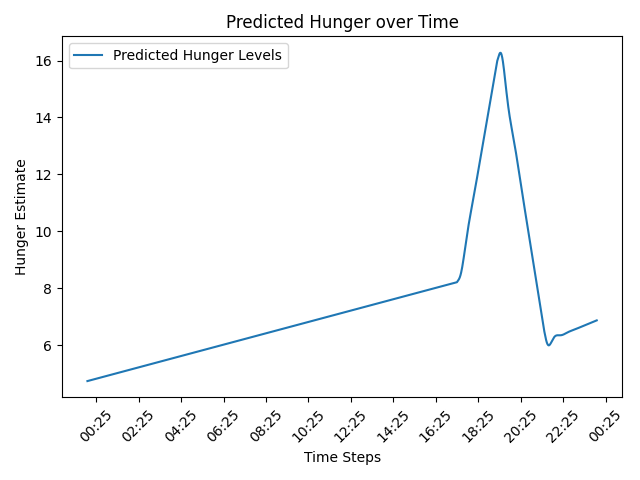
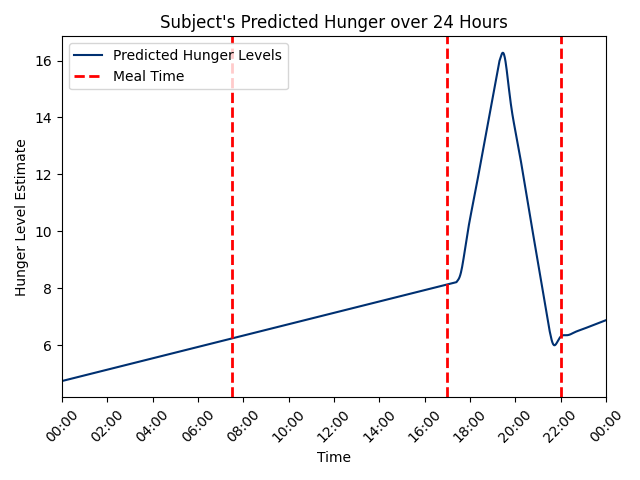
making final touches on plots

diff --git a/CoreBodyTemp/FeedingCopy/asya_kalman_hunger.py b/CoreBodyTemp/FeedingCopy/asya_kalman_hunger.py
@@ -16,7 +16,7 @@ from filterpy.kalman import KalmanFilter
 import sys 
 sys.path.append(os.path.join(home_dir, "SleepCycle"))
 from data_processing import process_categorical_data, process_numerical_data, calc_R, calc_X
-from datetime import datetime
+from datetime import datetime, timedelta
 
 #preprocess the data 
 physical_csv_string = os.path.join(home_dir, "data/PhysicalEffort.csv")
@@ -186,10 +186,18 @@ print(f"first time series: {time_phys_rate[0]}")
 print(f"last time series: {time_phys_rate[-1]}")
 
 
+
+
 for i in range(8, 18):
-    print(len(xs_cbt))
     start_time = datetime(2024, 2, i, 0, 0)  # Example start time: 05:00
     end_time = datetime(2024, 2, i+1, 0, 0)
+
+    meal_times = [
+        datetime(2024, 2, i, 7, 30),  # 7:30 AM
+        datetime(2024, 2, i, 17, 0),  # 5:00 PM
+        datetime(2024, 2, i, 22, 0)   # 10:00 PM
+    ]
+
     
     indices = [i for i, t in enumerate(time_phys_rate) if start_time <= t <= end_time]
     time_series_df = pd.Series(time_phys_rate)
@@ -197,17 +205,36 @@ for i in range(8, 18):
     time_series_filtered = time_series_filtered.tolist()
 
     xs_cbt_filtered = xs_cbt[indices]
-
-
-    plt.gca().xaxis.set_major_locator(mdates.MinuteLocator(interval=120))  # Set ticks every 30 minutes
-    plt.gca().xaxis.set_major_formatter(mdates.DateFormatter('%H:%M'))
+    #plt.gca().xaxis.set_major_locator(mdates.MinuteLocator(interval=120))  # Set ticks every 2 hours
+    #plt.gca().xaxis.set_major_formatter(mdates.DateFormatter('%H:%M'))
     plt.xticks(rotation=45)
 
+    
 
-    plt.plot(time_series_filtered, xs_cbt_filtered, label='Predicted Hunger Levels')
-    plt.title('Predicted Hunger over Time')
-    plt.xlabel('Time Steps')
-    plt.ylabel('Hunger Estimate')
+    locator = mdates.HourLocator(interval=2)  # ticks every 2 hours
+    plt.gca().xaxis.set_major_locator(locator)
+    formatter = mdates.DateFormatter('%H:%M')
+    plt.gca().xaxis.set_major_formatter(formatter)
+    plt.gca().set_xlim(start_time, end_time)
+
+   
+
+    plt.plot(time_series_filtered, xs_cbt_filtered, label='Predicted Hunger Levels', color = "#003071")
+
+     #add vertical lines at meal_times
+    for i in range(0, len(meal_times)):
+        if(i == 0):
+            plt.axvline(x=meal_times[i], color='red', linestyle='--', linewidth=2, label=f'Meal Time')
+        else:
+            plt.axvline(x=meal_times[i], color='red', linestyle='--', linewidth=2)
+
+    handles, labels = plt.gca().get_legend_handles_labels()
+    by_label = dict(zip(labels, handles))
+    plt.legend(by_label.values(), by_label.keys())
+
+    plt.title('Subject\'s Predicted Hunger over 24 Hours')
+    plt.xlabel('Time (Hours)')
+    plt.ylabel('Hunger Level Estimate')
     plt.legend()
     plt.tight_layout()
     plt.savefig(os.path.join(home_dir, "CoreBodyTemp/FeedingCopy/hunger_plots_pngs/", f"feeding_output_{start_time}_to_{end_time}_.png"))

diff --git a/CoreBodyTemp/my_kalman_filter.py b/CoreBodyTemp/my_kalman_filter.py
@@ -228,9 +228,15 @@ time_series = time_series.tolist()
 xs_cbt = xs_cbt[indices]
 #time_series = pd.date_range(start="00:01", end="23:59", periods=len(xs_cbt))
 
-plt.gca().xaxis.set_major_locator(mdates.MinuteLocator(interval=120))  # Set ticks every 30 minutes
-plt.gca().xaxis.set_major_formatter(mdates.DateFormatter('%H:%M'))
+#plt.gca().xaxis.set_major_locator(mdates.MinuteLocator(interval=120))  # Set ticks every 30 minutes
+#plt.gca().xaxis.set_major_formatter(mdates.DateFormatter('%H:%M'))
 plt.xticks(rotation=45)
+
+locator = mdates.HourLocator(interval=2)  # ticks every 2 hours
+plt.gca().xaxis.set_major_locator(locator)
+formatter = mdates.DateFormatter('%H:%M')
+plt.gca().xaxis.set_major_formatter(formatter)
+plt.gca().set_xlim(start_time, end_time)
 
 residual_std_cbt = residual_std[:, 0]  # Extract standard deviation for CBT
 mse_cbt = mse[:, 0]  # Extract MSE for CBT
@@ -240,10 +246,10 @@ print("Mean Squared Error (MSE):", mse_cbt)
 
 
 plt.plot(time_series, xs_cbt, color = "#003071", label='Predicted CBT')
-plt.title('Predicted Core Body Temperature over Time')
-plt.xlabel('Time Steps')
-plt.ylabel('CBT Estimate')
-plt.legend()
+plt.title("Subject\'s Predicted Core Body Temperature Over 24 Hours")
+plt.xlabel('Time (Hours)')
+plt.ylabel('CBT Estimate (°F)')
+#plt.legend()
 '''
 # Plot Residuals
 plt.subplot(2, 1, 2)  # Second plot in the grid

diff --git a/Ensemble/ensemble.py b/Ensemble/ensemble.py
@@ -195,26 +195,27 @@ for i in range(7,18):
 
     xs_cbt_filtered = xs_cbt[indices]
 
-    plt.gca().xaxis.set_major_locator(mdates.MinuteLocator(interval=120))  # Set ticks every 30 minutes
-    plt.gca().xaxis.set_major_formatter(mdates.DateFormatter('%H:%M'))
+    locator = mdates.HourLocator(interval=2)  # ticks every 2 hours
+    plt.gca().xaxis.set_major_locator(locator)
+    formatter = mdates.DateFormatter('%H:%M')
+    plt.gca().xaxis.set_major_formatter(formatter)
+    plt.gca().set_xlim(start_time, end_time)
+
     plt.xticks(rotation=45)
 
 
-    plt.plot(time_series_filtered, xs_cbt_filtered, label='Predicted SCN Activity')
-    plt.title('Predicted SCN over Time')
-    plt.xlabel('Time Steps')
+    plt.plot(time_series_filtered, xs_cbt_filtered, label='Predicted SCN Activity', color = "#003071")
+    plt.title('Predicted SCN Activity over 24 Hours')
+    plt.xlabel('Time (Hours)')
     plt.ylabel('SCN Activity Estimate')
-    plt.legend()
     plt.tight_layout()
     plt.savefig(os.path.join(script_dir,'ensemble_plot_pngs', f"ensemble_output_{start_time}_to_{end_time}_.png"))
     plt.clf()
     plt.cla()
 
-    pass
-
 plt.plot(ys_cbt, xs_cbt, label='Predicted Ensemble Levels')
 plt.title('Predicted Ensemble over Time')
-plt.xlabel('Time Steps')
+plt.xlabel('Time')
 plt.ylabel('Ensemble Estimate')
 plt.legend()
 

diff --git a/SleepCycle/data_processing.py b/SleepCycle/data_processing.py
@@ -4,7 +4,11 @@ import csv
 import matplotlib.pyplot as plt 
 col_to_extract = "value"
 import pandas as pd 
-import graph_test
+import sys
+import os
+script_path = sys.path.append(os.path.abspath(os.path.join(os.path.dirname(__file__), '..')))
+sys.path.append(script_path)
+#import graph_test
 from datetime import timedelta
 
 #from sklearn.preprocessing import LabelEncoder
@@ -278,4 +282,4 @@ def convert_1D():
 
     return sleep_analysis_sans_nan_1D
 
-regularize_analysis()
+#regularize_analysis()
